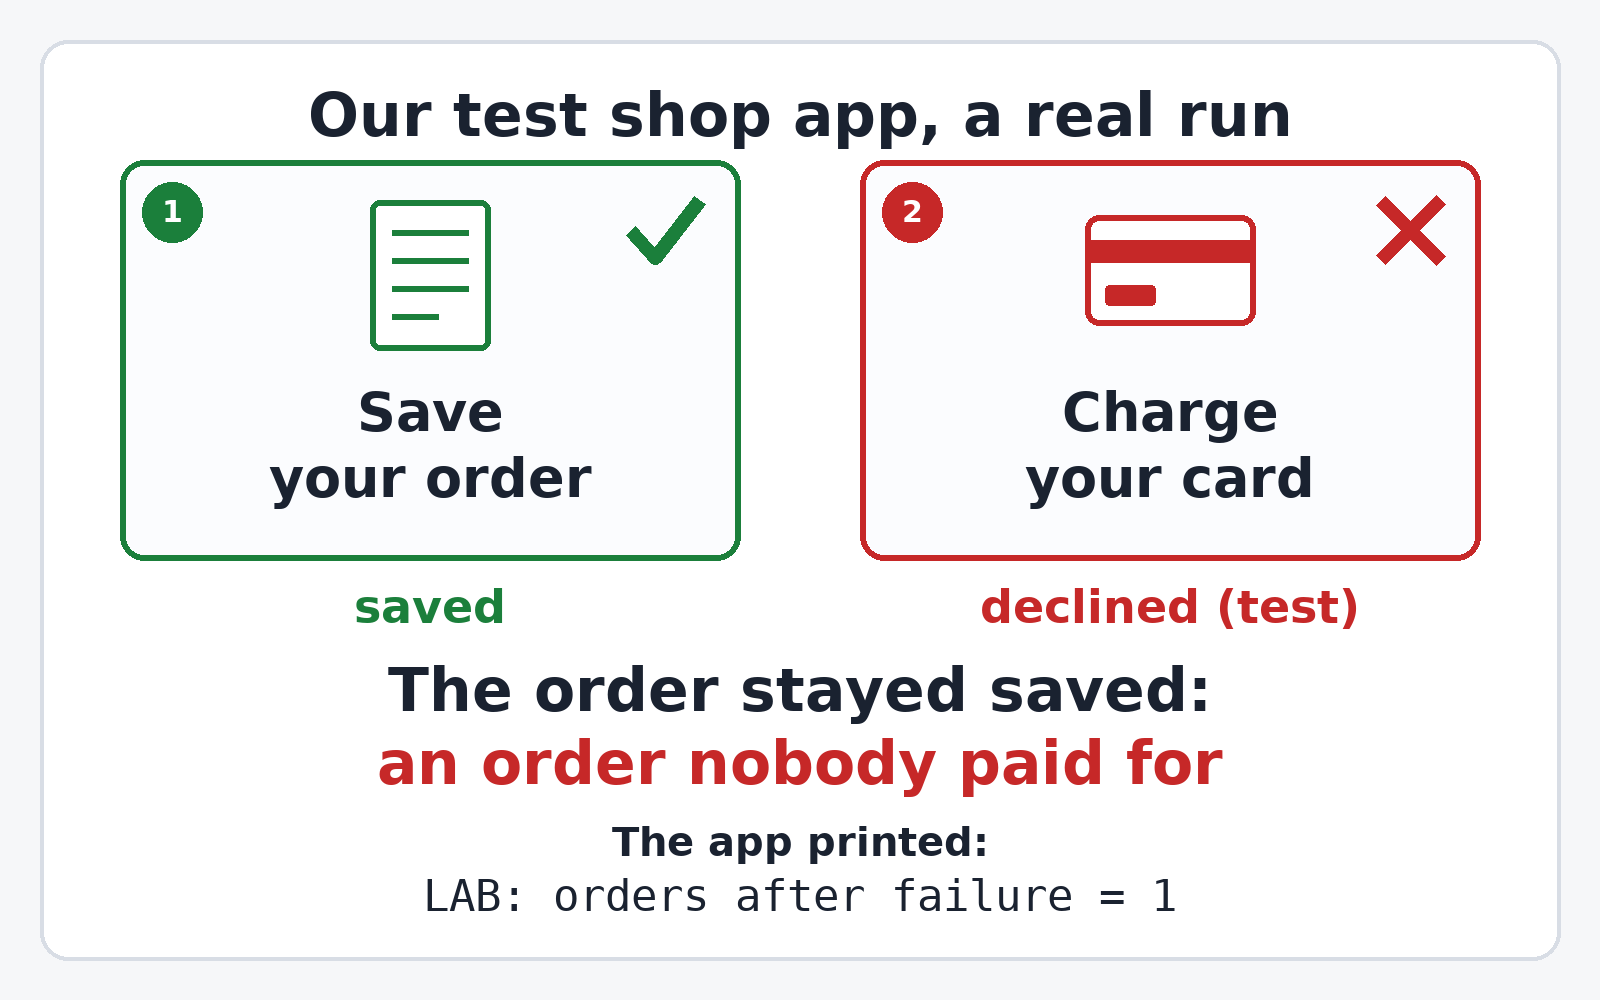
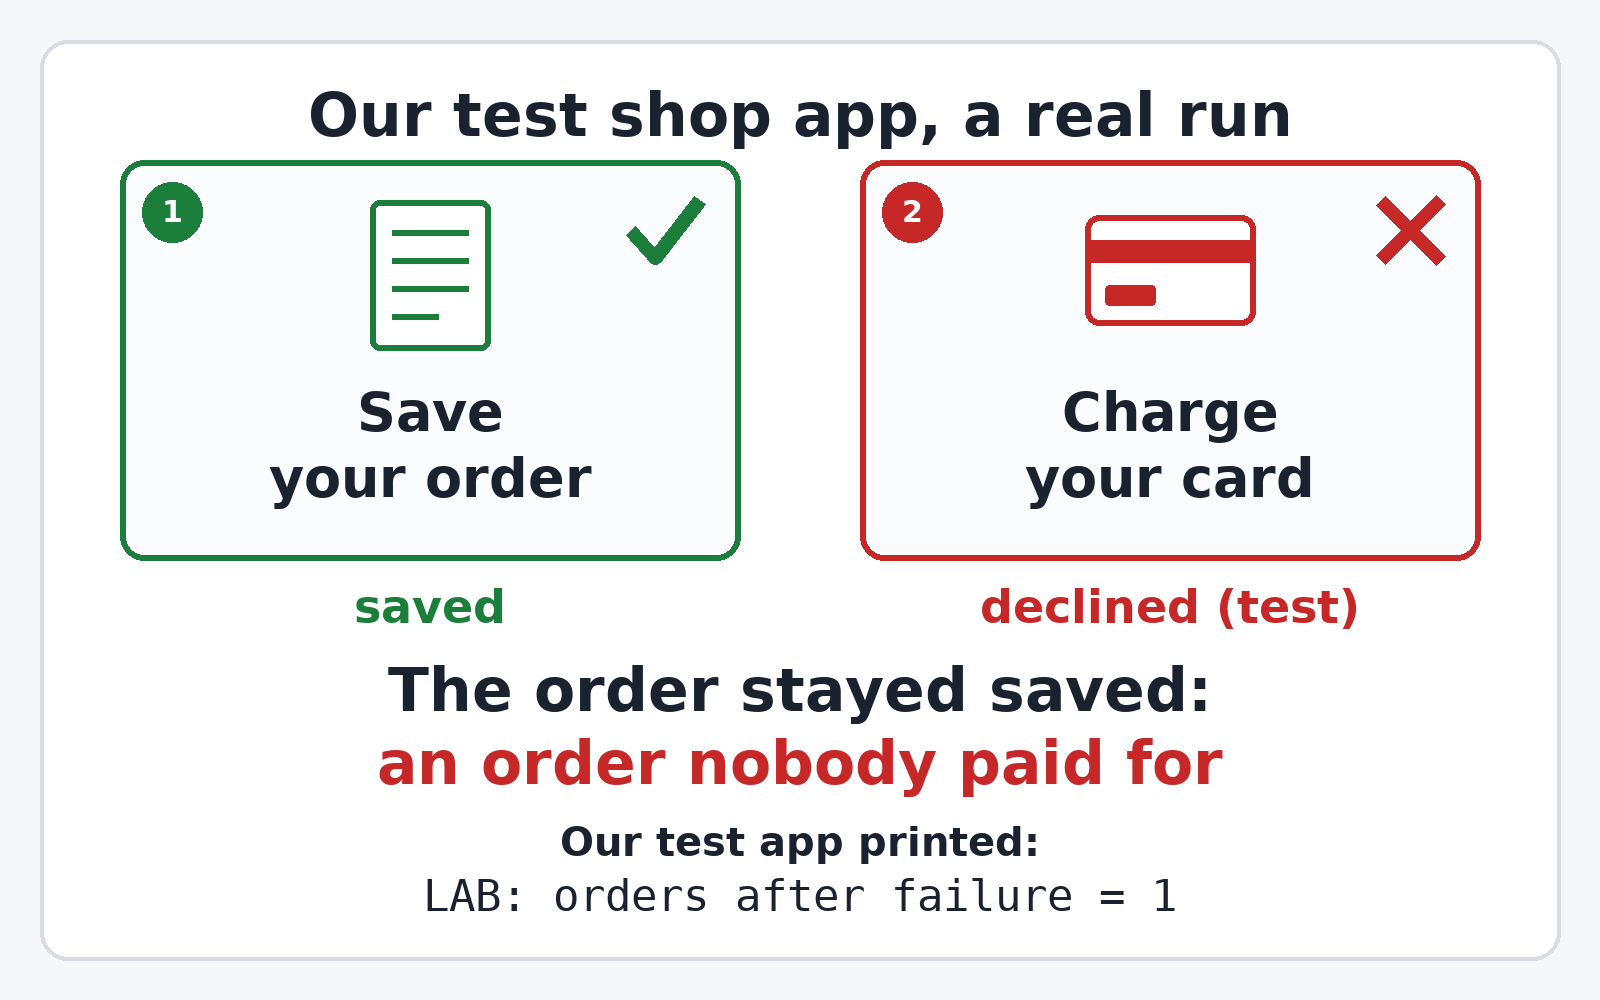
ep1 v2 pictures after the script gate: transaction box = the database save only, test decline marked, readable proof line

Changed region(s): [[0.3438, 0.806, 0.6562, 0.868]]

diff --git a/ep1-transactional/video/make_story_frames.py b/ep1-transactional/video/make_story_frames.py
@@ -98,7 +98,7 @@ step(d, X1, 160, SW, '1', ['Save', 'your order'], receipt, GREEN, outline=GREEN,
 step(d, X2, 160, SW, '2', ['Charge', 'your card'], card_icon, RED, outline=RED, width=6, mark='cross', note='declined (test)', note_col=RED)
 centered(d, 655, 'The order stayed saved:', font(SANS_B, 60), INK)
 centered(d, 728, 'an order nobody paid for', font(SANS_B, 60), RED)
-centered(d, 818, 'The app printed:', font(SANS_B, 40), INK)
+centered(d, 818, 'Our test app printed:', font(SANS_B, 40), INK)
 centered(d, 870, COUNT, font(MONO, 44), INK)
 im.save(os.path.join(out, 'story-2-wrong.png'))
 
